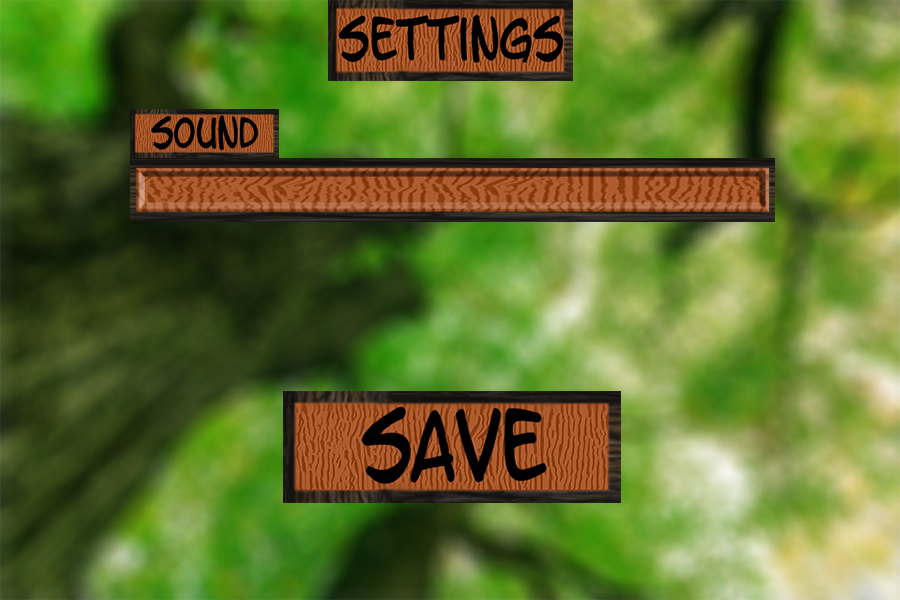
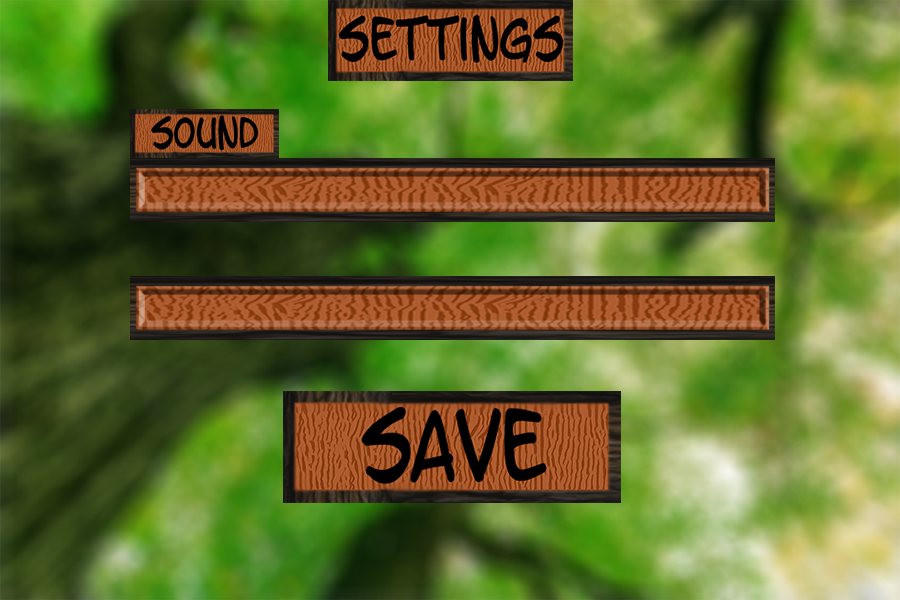
Clicksound zu Settings

Changed region(s): [[0.1244, 0.45, 0.8711, 0.57]]

diff --git a/Settings.java b/Settings.java
@@ -16,12 +16,14 @@ public class Settings extends FertigVorlaeufig {
      * Act - do whatever the Setting wants to do. This method is called whenever the 'Act' or 'Run' button gets pressed in the environment.
      */
     boolean following = false;
-    int tonX = 0;
-    int oldTonX = -1;
+    int tonX = 0, oldTonX = -1;
+    int clickX = 0, oldClickX = -1;
     static int volume = 10;
+    static int clickVolume = 10;
 
     public Settings() {
         tonX = volume * 6;
+        clickX = clickVolume * 6;
         repaint();
     }
 
@@ -33,6 +35,10 @@ public class Settings extends FertigVorlaeufig {
                     if(mouse.getX() > 345 && mouse.getX() < 945) {
                         tonX = mouse.getX() - 345;
                     }
+                } else if(mouse.getY() > 350 && mouse.getY() < 390) {
+                    if(mouse.getX() > 345 && mouse.getX() < 945) {
+                        clickX = mouse.getX() - 345;
+                    }
                 } else if(mouse.getY() > 460 && mouse.getY() < 560) {
                     if(mouse.getX() > 500 && mouse.getX() < 800) {
                         getWorld().removeObject(this);
@@ -40,16 +46,19 @@ public class Settings extends FertigVorlaeufig {
                 }
             }
         }
-        if(tonX != oldTonX) {
+        if(tonX != oldTonX || clickX != oldClickX) {
             volume = tonX / 6;
+            clickVolume = clickX / 6;
             repaint();
         }
     }
 
     public void repaint() {
         oldTonX = tonX;
+        oldClickX = clickX;
         GreenfootImage img = new GreenfootImage("images/ui/settings/settings.png");
         img.drawImage(new GreenfootImage("images/ui/settings/regler.png"), tonX + 135, 175);
+        img.drawImage(new GreenfootImage("images/ui/settings/regler.png"), clickX + 135, 292);
         setImage(img);
     }
 }
